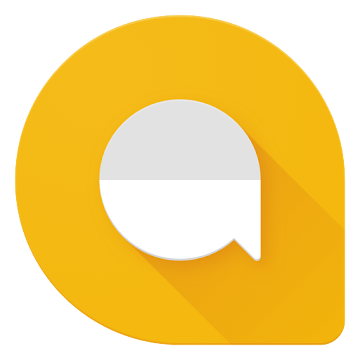
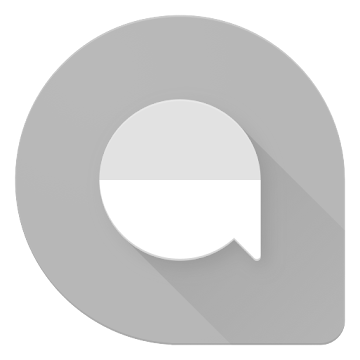
R.I.P. Allo

diff --git a/js/script.js b/js/script.js
@@ -1,5 +1,5 @@
 var deathTimeInbox = new Date("Mar 31, 2019 00:00:00").getTime();
-var deathTimeAllo = new Date("Mar 31, 2019 00:00:00").getTime();
+// var deathTimeAllo = new Date("Mar 31, 2019 00:00:00").getTime();
 var deathTimeGooglePlus = new Date("April 2, 2019 00:00:00").getTime();
 
 var inbox = setInterval(function() {
@@ -19,22 +19,22 @@ var inbox = setInterval(function() {
 
 }, 1000);
 
-var allo = setInterval(function() {
-    var now = new Date().getTime();
-    var distance = deathTimeAllo - now;
-    var days = Math.floor(distance / (1000 * 60 * 60 * 24));
-    var hours = Math.floor((distance % (1000 * 60 * 60 * 24)) / (1000 * 60 * 60));
-    var minutes = Math.floor((distance % (1000 * 60 * 60)) / (1000 * 60));
-    var seconds = Math.floor((distance % (1000 * 60)) / 1000);
+// var allo = setInterval(function() {
+//     var now = new Date().getTime();
+//     var distance = deathTimeAllo - now;
+//     var days = Math.floor(distance / (1000 * 60 * 60 * 24));
+//     var hours = Math.floor((distance % (1000 * 60 * 60 * 24)) / (1000 * 60 * 60));
+//     var minutes = Math.floor((distance % (1000 * 60 * 60)) / (1000 * 60));
+//     var seconds = Math.floor((distance % (1000 * 60)) / 1000);
 
-    document.getElementById("allo-countdown").innerHTML = "Allo dead in: " + days + "d " + hours + "h " + minutes + "m " + seconds + "s ";
+//     document.getElementById("allo-countdown").innerHTML = "Allo dead in: " + days + "d " + hours + "h " + minutes + "m " + seconds + "s ";
 
-    if (distance < 0) {
-        clearInterval(allo);
-        document.getElementById("allo-countdown").innerHTML = "R.I.P. Allo, 2016-2019";
-    }
+//     if (distance < 0) {
+//         clearInterval(allo);
+//         document.getElementById("allo-countdown").innerHTML = "R.I.P. Allo, 2016-2019";
+//     }
 
-}, 1000);
+// }, 1000);
 
 var googlePlus = setInterval(function() {
     var now = new Date().getTime();

diff --git a/index.html b/index.html
@@ -51,9 +51,9 @@
                     <div class="mdl-card__title mdl-card--expand" id="allo-logo">
                         <h2 class="mdl-card__title-text" id="title">Allo</h2>
                     </div>
-                    <div class="mdl-card__supporting-text" id="allo-countdown"></div>
+                    <div class="mdl-card__supporting-text" id="allo-countdown">Rest In Peace, 2016-2019</div>
                     <div class="mdl-card__actions mdl-card--border">
-                        <a class="mdl-button mdl-button--colored mdl-js-button mdl-js-ripple-effect" href="https://allo.google.com/web">Use it while you can!</a>
+                        <a class="mdl-button mdl-button--colored mdl-js-button mdl-js-ripple-effect" href="https://allo.google.com/web" disabled>Use it while you can!</a>
                     </div>
                 </div>
             </div>
